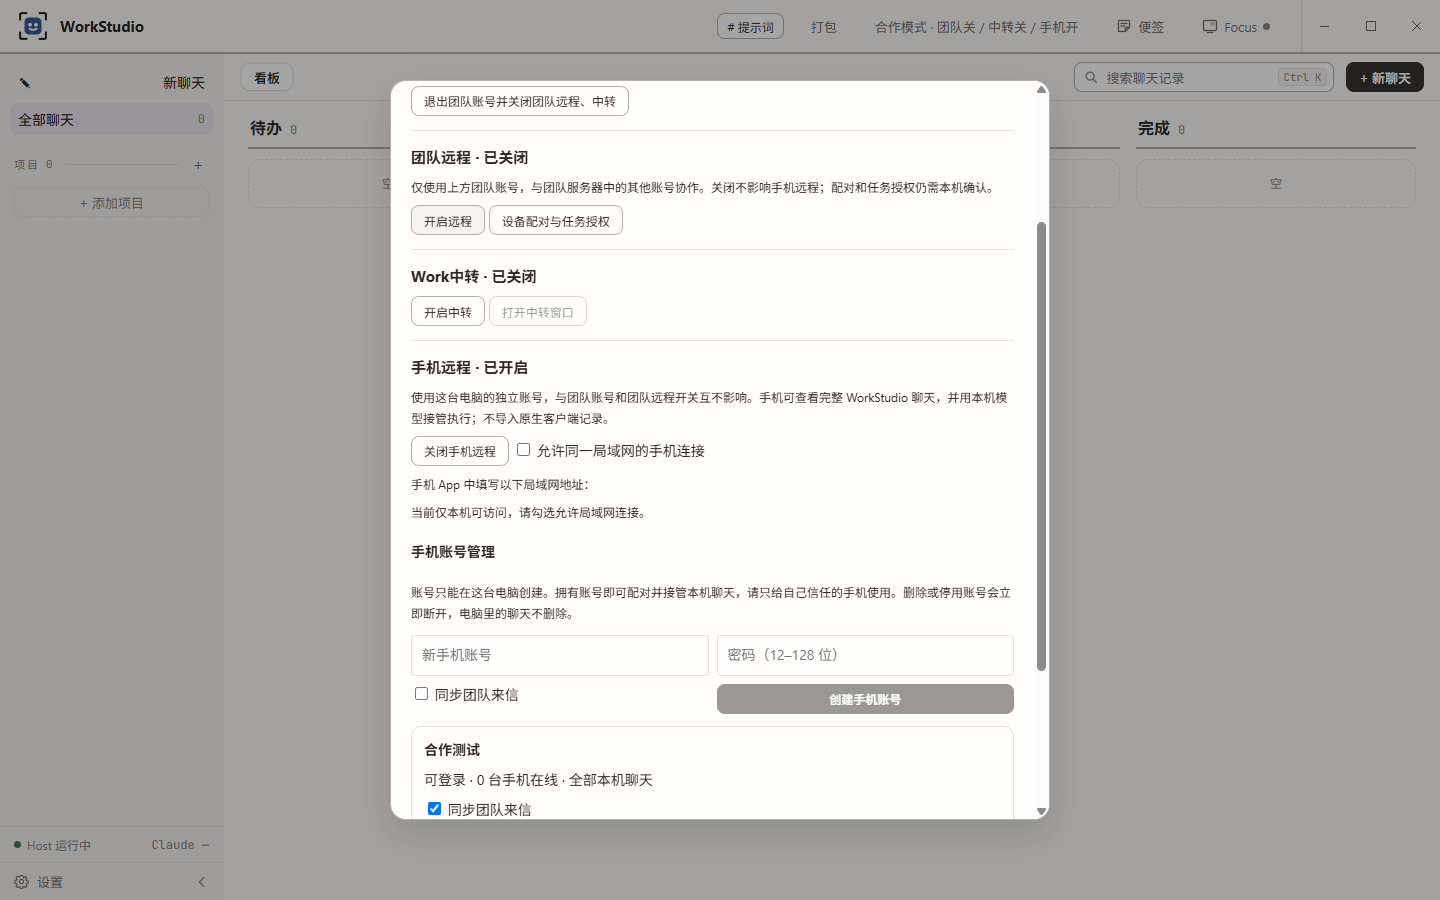
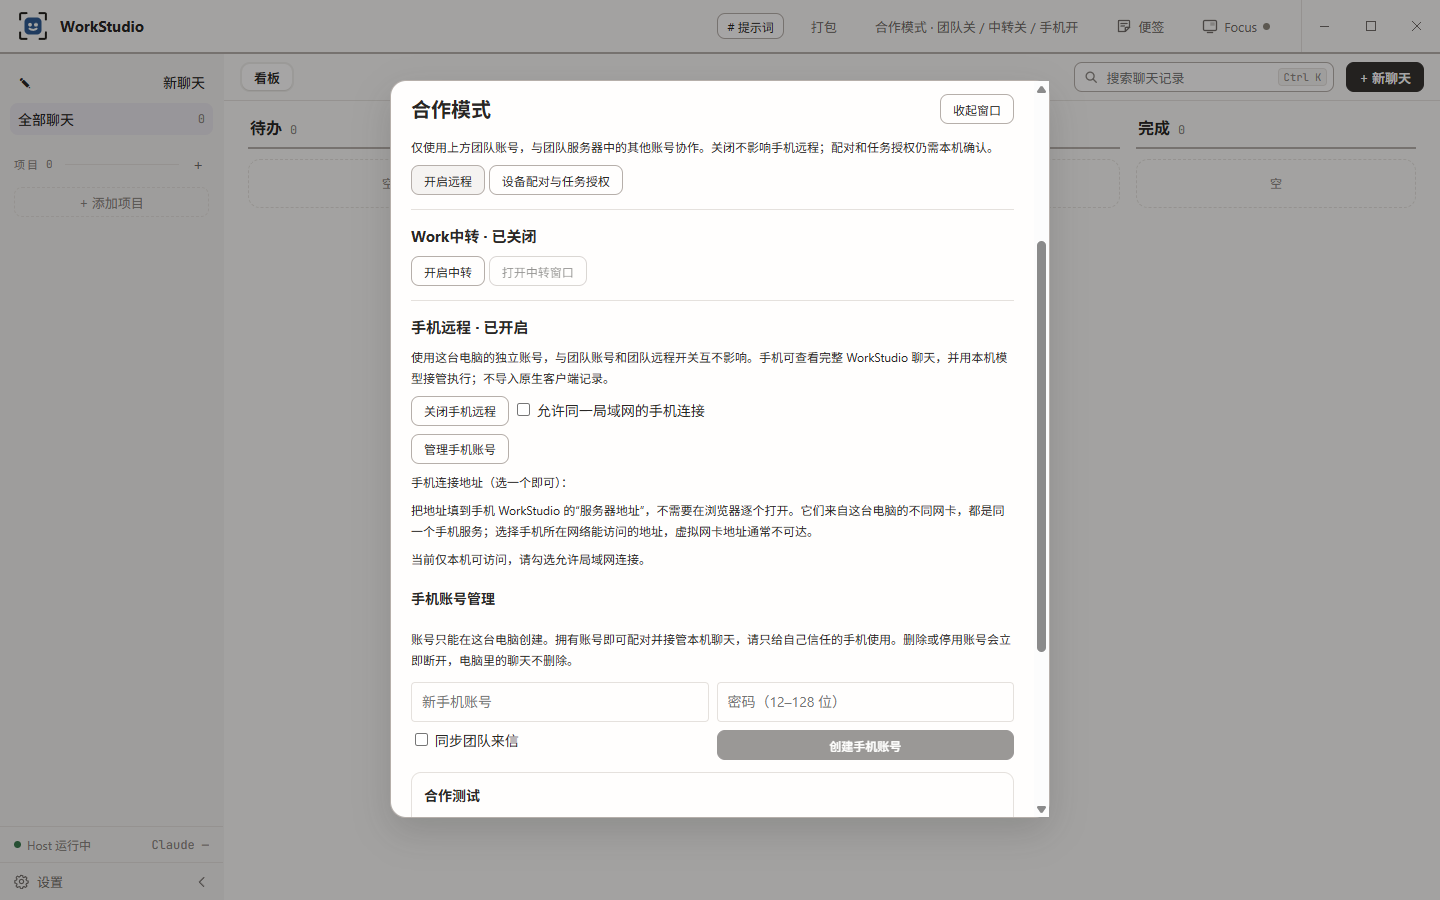
fix(studio): restore cooperation scrolling and account controls
Portal the dialog outside Electron's draggable titlebar and keep a single scroll container. Add an account-management jump and clarify phone connection addresses, folding automatic link-local addresses.

Validated typecheck/build, wheel and scrollbar dragging, account creation/reset/disable, existing cooperation regression, and portable packaging. Host and phone service remained running; live window refresh awaits the user's Ctrl+R after Computer Use was stopped.

Changed region(s): [[0.2812, 0.0933, 0.7188, 0.9333], [0.7188, 0.7156, 0.75, 0.7467], [0.7188, 0.2489, 0.75, 0.28]]

diff --git a/studio/e2e/studio/cooperation-scroll.spec.ts b/studio/e2e/studio/cooperation-scroll.spec.ts
@@ -1,0 +1,61 @@
+import { expect, test } from "@playwright/test";
+import { launchStudio, screenshot } from "../support/studio.js";
+
+test("cooperation has one non-draggable scroller: wheel, scrollbar and account-management jump remain usable", async () => {
+  const studio = await launchStudio();
+  try {
+    const { app, page } = studio;
+    await page.setViewportSize({ width: 1100, height: 720 });
+    await studio.api("POST", "/api/cooperation/phone-accounts", { name: "手机测试", password: "phone-password-123" });
+    await page.route("**/api/cooperation", async (route) => {
+      const response = await route.fetch(); const state = await response.json();
+      state.server = { ...state.server, running: true, lan: true, port: 47950, addresses: ["http://127.0.0.1:47950", "http://169.254.10.20:47950", "http://192.168.50.20:47950", "http://172.25.10.1:47950"] };
+      await route.fulfill({ response, json: state });
+    });
+    await page.getByTestId("cooperation-open").click();
+    const dialog = page.getByRole("dialog", { name: "合作模式", exact: true });
+    expect(await dialog.evaluate((el) => el.closest(".topbar, .titlebar"))).toBeNull();
+    expect(await dialog.evaluate((el) => getComputedStyle(el).getPropertyValue("-webkit-app-region"))).toBe("no-drag");
+    const metrics = await dialog.evaluate((el) => ({ height: el.clientHeight, full: el.scrollHeight, nested: [...el.querySelectorAll("*")].filter((child) => ["auto", "scroll"].includes(getComputedStyle(child).overflowY) && child.scrollHeight > child.clientHeight).length }));
+    expect(metrics.full).toBeGreaterThan(metrics.height + 200); expect(metrics.nested).toBe(0);
+    const box = (await dialog.boundingBox())!;
+    await page.mouse.move(box.x + box.width / 2, box.y + 160);
+    await page.mouse.wheel(0, 500);
+    await expect.poll(() => dialog.evaluate((el) => el.scrollTop)).toBeGreaterThan(100);
+    await page.mouse.wheel(0, -10000);
+    await expect.poll(() => dialog.evaluate((el) => el.scrollTop)).toBe(0);
+    // A real pointer drag, rather than Playwright's automatic scrollIntoView when clicking a hidden field.
+    const bar = await dialog.evaluate((el) => { const r = el.getBoundingClientRect(), border = parseFloat(getComputedStyle(el).borderRightWidth) || 0, width = (el as HTMLElement).offsetWidth - el.clientWidth - border * 2; return { x: r.right - border - Math.max(width, 12) / 2, y: r.top + 18 + (el.clientHeight - 36) * el.clientHeight / el.scrollHeight / 2 }; });
+    await page.mouse.move(bar.x, bar.y); await page.mouse.down(); await page.mouse.move(bar.x, bar.y + 160, { steps: 12 }); await page.mouse.up();
+    await expect.poll(() => dialog.evaluate((el) => el.scrollTop)).toBeGreaterThan(100);
+    await page.mouse.move(box.x + box.width / 2, box.y + 160); await page.mouse.wheel(0, 10000);
+    await expect.poll(() => dialog.evaluate((el) => el.scrollHeight - el.clientHeight - el.scrollTop)).toBeLessThan(2);
+    // At the very bottom the account row may already have passed above the viewport; reach it using only the wheel.
+    await expect(async () => {
+      const target = (await dialog.getByRole("button", { name: "重设密码", exact: true }).boundingBox())!;
+      if (target.y < box.y + 64) await page.mouse.wheel(0, -120);
+      else if (target.y + target.height > box.y + box.height - 8) await page.mouse.wheel(0, 120);
+      expect(target.y).toBeGreaterThanOrEqual(box.y + 64);
+      expect(target.y + target.height).toBeLessThanOrEqual(box.y + box.height - 8);
+    }).toPass({ timeout: 3000, intervals: [100] });
+    await expect(dialog.getByRole("button", { name: "重设密码", exact: true })).toBeInViewport({ ratio: 1 });
+    await expect(dialog.getByText("手机连接地址（选一个即可）：", { exact: true })).toBeAttached();
+    await expect(dialog.locator(".phone-addresses details")).not.toHaveAttribute("open");
+    await screenshot(app, "studio", "cooperation-scroll-account-controls", page);
+    await dialog.getByRole("button", { name: "重设密码", exact: true }).click();
+    await dialog.getByLabel("手机测试 的新密码", { exact: true }).fill("new-phone-password-123");
+    await dialog.getByRole("button", { name: "保存新密码并断开旧登录", exact: true }).click();
+    await expect(dialog.getByLabel("手机测试 的新密码", { exact: true })).toHaveCount(0);
+    await dialog.getByRole("button", { name: "停用账号", exact: true }).click();
+    await expect(dialog.getByTestId("phone-account-row")).toContainText("已停用");
+    // Jump to the form without depending on automatic scrolling by the test runner.
+    await page.mouse.wheel(0, -400);
+    await dialog.getByTestId("phone-manage-accounts").click();
+    await expect(dialog.getByLabel("手机账号名称", { exact: true })).toBeInViewport();
+    await dialog.getByLabel("手机账号名称", { exact: true }).fill("新手机");
+    await dialog.getByLabel("手机账号密码", { exact: true }).fill("new-phone-account-123");
+    await dialog.getByRole("button", { name: "创建手机账号", exact: true }).click();
+    await expect(dialog.getByTestId("phone-account-row")).toHaveCount(2);
+    await screenshot(app, "studio", "cooperation-scroll-account-create", page);
+  } finally { await studio.close(); }
+});

diff --git a/studio/packages/ui/src/shell/PhoneRemoteSettings.tsx b/studio/packages/ui/src/shell/PhoneRemoteSettings.tsx
@@ -1,17 +1,23 @@
-import { useState } from "react";
+import { useRef, useState } from "react";
 import type { CooperationState, PhoneAccount } from "@amo-studio/protocol";
 import { call, type HostLink } from "../host/client.js";
 
 export function PhoneRemoteSettings({ link, state, busy, run }: { link: HostLink; state: CooperationState | null; busy: boolean; run(action: () => Promise<unknown>): Promise<void> }) {
   const [name, setName] = useState(""), [password, setPassword] = useState(""), [forward, setForward] = useState(false);
   const server = state?.server;
+  const accounts = useRef<HTMLDivElement>(null);
+  const addresses = (server?.addresses ?? []).filter((a) => !a.includes("127.0.0.1"));
+  const automatic = addresses.filter((a) => a.startsWith("http://169.254."));
+  const connectionAddresses = addresses.filter((a) => !automatic.includes(a));
   return <section className="phone-remote-settings" data-testid="phone-remote-settings">
     <h3>手机远程 · {server?.running ? "已开启" : "已关闭"}</h3>
     <p className="muted">使用这台电脑的独立账号，与团队账号和团队远程开关互不影响。手机可查看完整 WorkStudio 聊天，并用本机模型接管执行；不导入原生客户端记录。</p>
     <button className="btn-ghost" data-testid="phone-remote-toggle" disabled={busy} onClick={() => void run(() => call(link, "PUT /api/cooperation/server", {}, { enabled: !server?.running, lan: server?.lan ?? false }))}>{server?.running ? "关闭手机远程" : "开启手机远程"}</button>{" "}
     <label><input type="checkbox" checked={server?.lan ?? false} disabled={busy} onChange={(e) => void run(() => call(link, "PUT /api/cooperation/server", {}, { enabled: server?.running ?? false, lan: e.target.checked }))} /> 允许同一局域网的手机连接</label>
     {server?.error && <p role="alert">{server.error}</p>}
-    {server?.running && <div><p>手机 App 中填写以下局域网地址：</p>{server.addresses.filter((a) => !a.includes("127.0.0.1")).map((address) => <p key={address}><code>{address}</code></p>)}{!server.lan && <p className="muted">当前仅本机可访问，请勾选允许局域网连接。</p>}</div>}
+    <p><button className="btn-ghost" data-testid="phone-manage-accounts" onClick={() => accounts.current?.scrollIntoView({ block: "start", behavior: "smooth" })}>管理手机账号</button></p>
+    {server?.running && <div className="phone-addresses"><p>手机连接地址（选一个即可）：</p><p className="muted">把地址填到手机 WorkStudio 的“服务器地址”，不需要在浏览器逐个打开。它们来自这台电脑的不同网卡，都是同一个手机服务；选择手机所在网络能访问的地址，虚拟网卡地址通常不可达。</p>{connectionAddresses.map((address) => <p key={address}><code>{address}</code></p>)}{!!automatic.length && <details><summary>自动分配地址（通常不用）</summary>{automatic.map((address) => <p key={address}><code>{address}</code></p>)}</details>}{!server.lan && <p className="muted">当前仅本机可访问，请勾选允许局域网连接。</p>}</div>}
+    <div ref={accounts} className="phone-account-management">
     <h4>手机账号管理</h4><p className="muted">账号只能在这台电脑创建。拥有账号即可配对并接管本机聊天，请只给自己信任的手机使用。删除或停用账号会立即断开，电脑里的聊天不删除。</p>
     <div className="phone-account-create">
       <input aria-label="手机账号名称" placeholder="新手机账号" autoComplete="off" value={name} onChange={(e) => setName(e.target.value)} />
@@ -20,6 +26,7 @@ export function PhoneRemoteSettings({ link, state, busy, run }: { link: HostLink
       <button className="btn-primary" disabled={busy || !name.trim() || password.length < 12 || password.length > 128} onClick={() => void run(async () => { await call(link, "POST /api/cooperation/phone-accounts", {}, { name: name.trim(), password, forwardTeamInbox: forward }); setName(""); setPassword(""); setForward(false); })}>创建手机账号</button>
     </div>
     {(server?.accounts ?? []).map((account) => <PhoneAccountRow key={account.name} link={link} account={account} busy={busy} run={run} />)}
+    </div>
     <p className="muted">手机登录此账号后，选择名称带“手机远程”的这台电脑申请配对。账号由本机创建，配对后自动同步本机聊天。团队来信只同步给勾选“同步团队来信”的手机账号；不会自动执行。需要接收团队来信时，另行开启 Work中转。</p>
   </section>;
 }

diff --git a/studio/packages/ui/src/shell/CooperationMenu.tsx b/studio/packages/ui/src/shell/CooperationMenu.tsx
@@ -23,9 +23,10 @@ export function CooperationMenu({ link, onRemote }: { link: HostLink; onRemote()
   const loginMissing = !server.trim() ? "请先填写或选择服务器地址" : !name.trim() ? "请输入账号" : !password ? "请输入密码" : "";
   return <>
     <button type="button" className="tb-btn" data-testid="cooperation-open" onClick={() => setOpen(true)} title={`账号：${state?.account?.name ?? "未登录"}；远程：${state?.remoteEnabled ? "开" : "关"}；中转：${state?.relayEnabled ? "开" : "关"}`}>合作模式 · {active ? `团队${state?.remoteEnabled ? "开" : "关"} / 中转${state?.relayEnabled ? "开" : "关"} / 手机${state?.server.running ? "开" : "关"}` : "已关闭"}{!!state?.transfers.length && " · 待确认"}</button>
-    {open && <Modal label="合作模式" className="cooperation-modal" onClose={() => setOpen(false)} busy={busy}>
+    {/* Electron's draggable titlebar swallows scrollbar drags; the dialog must live outside it. */}
+    {open && <Modal label="合作模式" className="cooperation-modal" portal onClose={() => setOpen(false)} busy={busy}>
       <div className="cooperation-content">
-        <div style={{ display: "flex", justifyContent: "space-between", alignItems: "center", gap: 12 }}><h2>合作模式</h2><button className="btn-ghost" onClick={() => setOpen(false)}>收起窗口</button></div>
+        <div className="cooperation-header"><h2>合作模式</h2><button className="btn-ghost" onClick={() => setOpen(false)}>收起窗口</button></div>
         <p className="muted">团队账号、团队远程、中转和手机远程分别管理。收起窗口不会关闭功能。</p>
         <button className="btn-ghost danger" data-testid="cooperation-off" disabled={busy} onClick={() => void run(() => call(link, "POST /api/cooperation/off"))}>一键关闭合作模式并退出账号</button>
         {error && <p role="alert">{error}</p>}

diff --git a/studio/packages/ui/src/shell/cooperation.css b/studio/packages/ui/src/shell/cooperation.css
@@ -1,5 +1,6 @@
-.cooperation-modal { width: min(660px, calc(100vw - 28px)); max-width: 660px; padding: 0; overflow: hidden; }
-.cooperation-content { box-sizing: border-box; padding: 20px; width: 100%; max-height: min(82vh, 760px); overflow-y: auto; }
+.modal.cooperation-modal { display: block; width: min(660px, calc(100vw - 28px)); max-width: 660px; max-height: min(82dvh, calc(100dvh - 112px)); padding: 0; overflow-y: auto; overscroll-behavior: contain; -webkit-app-region: no-drag; user-select: text; }
+.cooperation-content { box-sizing: border-box; padding: 20px; width: 100%; }
+.cooperation-header { position: sticky; top: 0; z-index: 2; display: flex; justify-content: space-between; align-items: center; gap: 12px; padding: 12px 0; margin-top: -12px; background: var(--panel); }
 .cooperation-content h2 { margin: 0; font-size: 20px; }
 .cooperation-content h3 { font-size: 15px; margin: 14px 0 8px; }
 .cooperation-content p { font-size: 12px; line-height: 1.7; overflow-wrap: anywhere; margin: 8px 0; }
@@ -10,4 +11,6 @@
 .cooperation-content summary { cursor: pointer; font-weight: 600; font-size: 14px; }
 .phone-account-create { display: grid; grid-template-columns: minmax(120px, 1fr) minmax(160px, 1fr); gap: 8px; margin: 12px 0; }
 .phone-account-row { display: grid; gap: 8px; padding: 12px; border: 1px solid var(--border); border-radius: 10px; margin: 10px 0; }
+.phone-account-management { scroll-margin-top: 64px; }
+.phone-addresses code { display: inline-block; padding: 3px 6px; background: var(--bg); border-radius: 4px; user-select: text; }
 @media (max-width: 600px) { .phone-account-create { grid-template-columns: 1fr; } }

diff --git a/studio/HANDOFF.md b/studio/HANDOFF.md
@@ -10,7 +10,7 @@
 |---|---|
 | 开发目录 | `G:\PROJECT\AgentMonitorOverlay\studio`（桌面快捷方式「AMO Source」指这里的 `start-studio.cmd`） |
 | 分支 | `master` 是主线；旧版 AMO 在标签 `amo-legacy-final` |
-| kingkunkun fork | 本机 `D:\Codex\AgentMonitorOverlay`；origin 仅 `kingkunkun/AgentMonitorOverlay`，upstream 禁止推送。上游同步基线 `455720b4`。11-11 已加载独立手机远程和手机账号管理；团队账号仍连接 172.16.8.85:47120，不需退出。当前团队远程/中转/手机远程关闭，手机账号尚未创建。无运行会话时正常重启，47 任务/47 会话/7 工作目录 ID 和原 6818 条记录全保留；SQLite 在线备份 `.data/backup-before-newui-restart-20261111183131`。Jenkins 凭据与设置保留。连接的 MI 8 已保留数据覆盖安装并启动 WorkStudio 0.2.1 / build 5；IPA 仍须 Mac 构建签名。 |
+| kingkunkun fork | 本机 `D:\Codex\AgentMonitorOverlay`；origin 仅 `kingkunkun/AgentMonitorOverlay`，upstream 禁止推送。上游同步基线 `455720b4`。11-11 已加载独立手机远程和手机账号管理；团队账号仍连接 172.16.8.85:47120，不需退出。当前团队远程/中转关闭，手机远程已由用户开启并允许 LAN，手机账号仍待创建。合作弹窗滚动与账号管理直达修复已编译打包；用户 Esc 停止窗口操作后，实际界面加载待用户 Ctrl+R 确认。此修复不重启 Host 和手机服务。无运行会话时正常重启，47 任务/47 会话/7 工作目录 ID 和原 6818 条记录全保留；SQLite 在线备份 `.data/backup-before-newui-restart-20261111183131`。Jenkins 凭据与设置保留。连接的 MI 8 已保留数据覆盖安装并启动 WorkStudio 0.2.1 / build 5；IPA 仍须 Mac 构建签名。 |
 | Work中转 / 合作模式（本机集成） | 顶栏团队账号、团队远程、中转和手机远程独立。手机账号在本机创建/改密/停用/删除，独立数据库和设备授权，可接管本机聊天及模型、权限、Fast、# 提示词；团队来信创建待回复聊天，按手机账号勾选同步，不自动执行。原生导入禁止、外发逐次确认，见 `docs/cooperation-privacy-lan.md`。手机名字和原创头像已同步 Android/iOS；APK `D:\Codex\WorkStudio-builds\WorkStudio-PhoneRemote-0.2.1-20261111-debug.apk`，真实手机已安装启动，账号登录配对仍待用户在本机创建账号后验收。 |
 | 常设 worktree | 都是 master 的 detached worktree：值守目录 `G:\PROJECT\AgentMonitorOverlay-duty`（值守修问题、`release land`）、打包目录 `G:\PROJECT\AgentMonitorOverlay-release`（自动打包跑 `release auto --if-due`）。别的 worktree 是各任务自己的（`git worktree list` 看） |
 | 用户在用的 Studio | 平台装的版本（`D:\TOOLS\AMO Platform\apps\studio\<版本>`），不是这个开发目录：在这里改代码、build 都不影响它；提交进 master 且写了「下一版」的会被自动打包发到测试通道，用户自己选装 |

diff --git a/studio/docs/cooperation-privacy-lan.md b/studio/docs/cooperation-privacy-lan.md
@@ -21,6 +21,10 @@
 5. 手机可收发消息、接管当前聊天、选择全部可用模型、低/中/高等实际支持的思考强度、Fast、权限、审批、提问和 # 提示词。跨渠道接续仍保留原记录；执行始终在电脑，结果流式同步到手机。
 6. 需要团队消息时，保持团队账号登录并另行开启 Work中转。在手机账号行勾选“同步团队来信”，来信建立本地聊天并只同步给勾选的账号，附带原文但不会自动执行。手机回复后才由本地所选模型处理。关闭此项立即收回这些来信聊天的后续读取权限，无法撤销已经同步到手机的历史缓存。
 
+合作弹窗支持滚轮和拖动滚动条，“管理手机账号”按钮直接滚动到账号表单。弹窗移到 Electron 标题栏拖动区域之外，并只保留一个滚动容器，避免滚动条操作被当成拖动窗口。
+
+手机服务显示的多个 HTTP 地址来自电脑的不同网卡，指向同一个服务。手机只需把其中一个可达地址填入 App 的“服务器地址”，不用在浏览器逐个打开；优先使用电脑实际接入局域网的网卡地址。虚拟网卡地址通常不可达，`169.254.*` 自动分配地址放在折叠说明里，通常不选。
+
 同一可达局域网不需要 Tailscale。Wi-Fi 的访客隔离、公司网络 ACL 或 Windows 防火墙可能阻止 47950；本次没有修改公司网络或自动添加防火墙放行。没有公网入口时，5G 不能直接连公司内网电脑。本次只完成局域网方案。
 
 本机服务复用 Relay 的登录/设备协议，但账号和授权是独立域，不连接团队服务器。数据在 Studio 数据目录旁的 `phone-server/`；原 `.data` 与已有中转数据均保留。Android 工程在 `mobile/`，应用名 WorkStudio，图标为原创二次元女性头像；APK 是内部调试签名，真实手机未验收。iOS 共用代码、名称与图标已同步，IPA 未在 Windows 编译/签名。

diff --git a/studio/packages/app/CHANGELOG.md b/studio/packages/app/CHANGELOG.md
@@ -4,6 +4,7 @@
 
 ## 下一版
 
+- 修复合作模式弹窗受标题栏拖动区域影响而无法正常滚动的问题，改为独立弹窗和单一滚动区；增加手机账号管理直达入口，说明多网卡连接地址用途并折叠自动分配地址。
 - 团队远程与手机远程拆分，团队账号不用退出。手机账号在本机创建、启停、重设密码和删除，独立存储、独立设备授权；关闭团队远程不影响手机接管聊天。
 - 手机同步本机完整聊天并调用本机模型、权限、Fast 和 # 提示词；团队来信创建待回复聊天，仅同步给指定手机账号，不自动执行。手机账号删除和改密即时断开，文件外发仍需电脑确认。
 - Fast 开启后常驻闪电标记，浮层增加用量说明及账号额度；未提供独立 Fast 额度时明确提示，不显示推算值。
